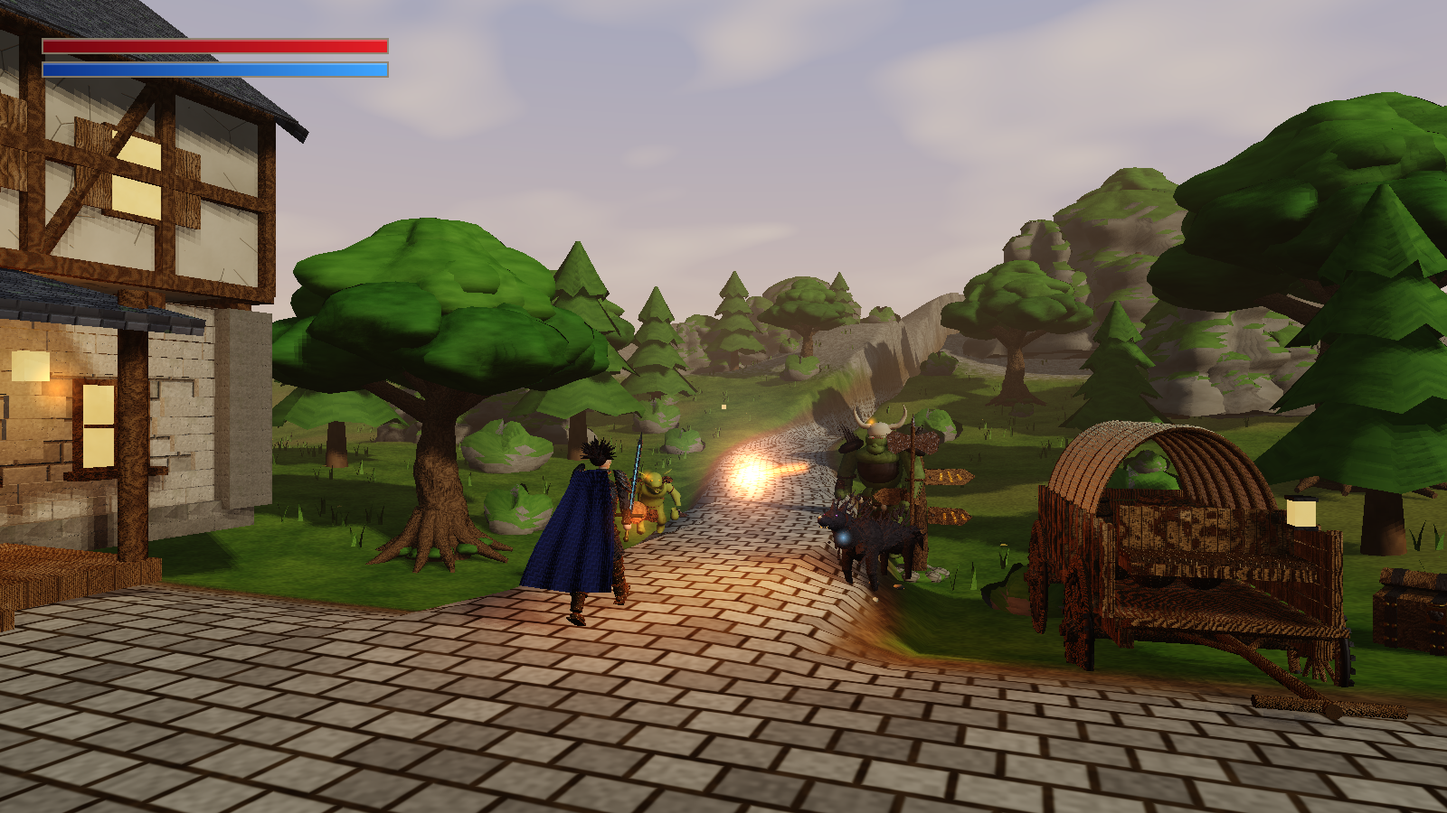
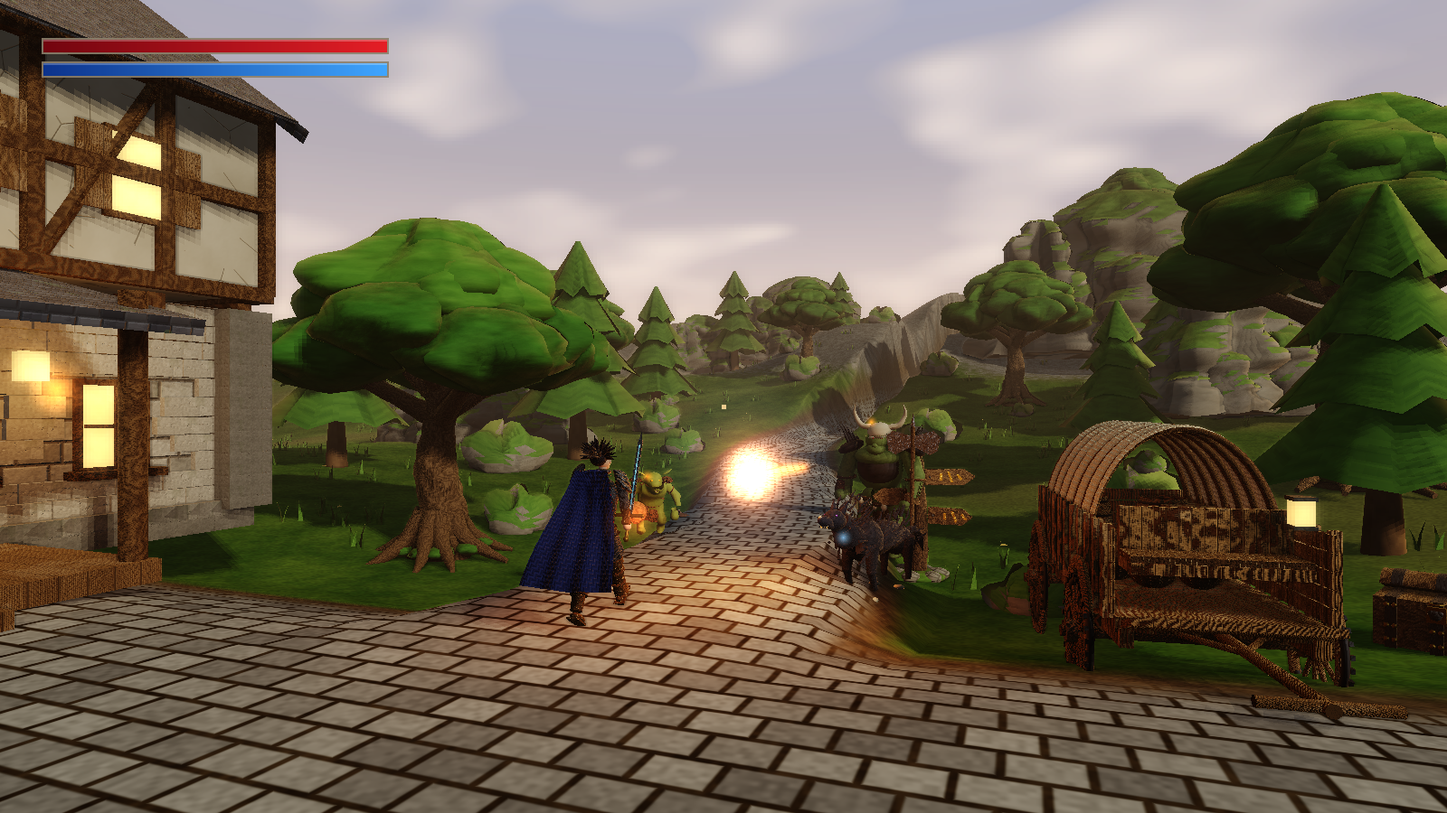
Q03: Offscreen HDR framebuffer (sceneFbo), SSAO contact shadows, dual-pass Gaussian bloom & golden-hour rim lighting

diff --git a/src/gl_renderer.cpp b/src/gl_renderer.cpp
@@ -1,5 +1,6 @@
 #ifdef _WIN32
 #include "gl_renderer.hpp"
+#include <algorithm>
 #include <cmath>
 #include <cstdio>
 #include "gl_shaders.hpp"
@@ -13,16 +14,40 @@ static GLuint link(const char* vs, const char* fs, std::string& err) {
   GLuint p = glCreateProgram(); glAttachShader(p, v); glAttachShader(p, f); glLinkProgram(p); glDeleteShader(v); glDeleteShader(f); GLint ok = 0; glGetProgramiv(p, GL_LINK_STATUS, &ok);
   if (!ok) { char log[1024]; glGetProgramInfoLog(p, 1024, nullptr, log); err += log; return 0; } return p; }
 bool GLRenderer::init(std::string& err) {
-  pbr = link(kPbrVS, kPbrFS, err); sky = link(kSkyVS, kSkyFS, err); hud = link(kHudVS, kHudFS, err); shadowProg = link(kShadowVS, kShadowFS, err); if (!pbr || !sky || !hud || !shadowProg) return false;
-  // 2048x2048 depth map for the directional golden-hour sun
+  pbr = link(kPbrVS, kPbrFS, err); sky = link(kSkyVS, kSkyFS, err); hud = link(kHudVS, kHudFS, err); shadowProg = link(kShadowVS, kShadowFS, err);
+  bloomProg = link(kSkyVS, kBloomFS, err); postProg = link(kSkyVS, kPostFS, err);
+  if (!pbr || !sky || !hud || !shadowProg || !bloomProg || !postProg) return false;
   glGenTextures(1, &shadowTex); glBindTexture(GL_TEXTURE_2D, shadowTex); glTexImage2D(GL_TEXTURE_2D, 0, GL_DEPTH_COMPONENT24, kShadowRes, kShadowRes, 0, GL_DEPTH_COMPONENT, GL_FLOAT, nullptr);
   glTexParameteri(GL_TEXTURE_2D, GL_TEXTURE_MIN_FILTER, GL_NEAREST); glTexParameteri(GL_TEXTURE_2D, GL_TEXTURE_MAG_FILTER, GL_NEAREST); glTexParameteri(GL_TEXTURE_2D, GL_TEXTURE_WRAP_S, GL_CLAMP_TO_BORDER); glTexParameteri(GL_TEXTURE_2D, GL_TEXTURE_WRAP_T, GL_CLAMP_TO_BORDER);
   { const GLfloat border[4] = {1, 1, 1, 1}; glTexParameterfv(GL_TEXTURE_2D, GL_TEXTURE_BORDER_COLOR, border); }
   glGenFramebuffers(1, &shadowFbo); glBindFramebuffer(GL_FRAMEBUFFER, shadowFbo); glFramebufferTexture2D(GL_FRAMEBUFFER, GL_DEPTH_ATTACHMENT, GL_TEXTURE_2D, shadowTex, 0); glDrawBuffer(GL_NONE); glReadBuffer(GL_NONE);
   bool fboOk = glCheckFramebufferStatus(GL_FRAMEBUFFER) == GL_FRAMEBUFFER_COMPLETE; glBindFramebuffer(GL_FRAMEBUFFER, 0); if (!fboOk) { err += "shadow framebuffer incomplete"; return false; }
+  glGenFramebuffers(1, &sceneFbo); glGenTextures(1, &sceneColorTex); glGenTextures(1, &sceneDepthTex);
+  glGenFramebuffers(2, bloomFbo); glGenTextures(2, bloomTex);
   glGenVertexArrays(1, &skyVao); glGenVertexArrays(1, &hudVao); glGenBuffers(1, &hudVbo); glBindVertexArray(hudVao); glBindBuffer(GL_ARRAY_BUFFER, hudVbo);
   glEnableVertexAttribArray(0); glVertexAttribPointer(0, 2, GL_FLOAT, GL_FALSE, 32, (void*)0); glEnableVertexAttribArray(1); glVertexAttribPointer(1, 2, GL_FLOAT, GL_FALSE, 32, (void*)8);
   glEnableVertexAttribArray(2); glVertexAttribPointer(2, 4, GL_FLOAT, GL_FALSE, 32, (void*)16); glBindVertexArray(0); return true; }
+void GLRenderer::ensureFbos(int w, int h) {
+  if (w == fboW && h == fboH) return;
+  fboW = w; fboH = h;
+  auto cfgTex = [&](GLuint t, int tw, int th, GLint ifmt, GLenum fmt, GLenum type, GLint filt) {
+    glBindTexture(GL_TEXTURE_2D, t); glTexImage2D(GL_TEXTURE_2D, 0, ifmt, tw, th, 0, fmt, type, nullptr);
+    glTexParameteri(GL_TEXTURE_2D, GL_TEXTURE_MIN_FILTER, filt); glTexParameteri(GL_TEXTURE_2D, GL_TEXTURE_MAG_FILTER, filt);
+    glTexParameteri(GL_TEXTURE_2D, GL_TEXTURE_WRAP_S, GL_CLAMP_TO_EDGE); glTexParameteri(GL_TEXTURE_2D, GL_TEXTURE_WRAP_T, GL_CLAMP_TO_EDGE);
+  };
+  cfgTex(sceneColorTex, w, h, GL_RGBA16F, GL_RGBA, GL_HALF_FLOAT, GL_LINEAR);
+  cfgTex(sceneDepthTex, w, h, GL_DEPTH_COMPONENT24, GL_DEPTH_COMPONENT, GL_FLOAT, GL_NEAREST);
+  glBindFramebuffer(GL_FRAMEBUFFER, sceneFbo);
+  glFramebufferTexture2D(GL_FRAMEBUFFER, GL_COLOR_ATTACHMENT0, GL_TEXTURE_2D, sceneColorTex, 0);
+  glFramebufferTexture2D(GL_FRAMEBUFFER, GL_DEPTH_ATTACHMENT, GL_TEXTURE_2D, sceneDepthTex, 0);
+  int bw = std::max(1, w / 2), bh = std::max(1, h / 2);
+  for (int i = 0; i < 2; i++) {
+    cfgTex(bloomTex[i], bw, bh, GL_RGBA16F, GL_RGBA, GL_HALF_FLOAT, GL_LINEAR);
+    glBindFramebuffer(GL_FRAMEBUFFER, bloomFbo[i]);
+    glFramebufferTexture2D(GL_FRAMEBUFFER, GL_COLOR_ATTACHMENT0, GL_TEXTURE_2D, bloomTex[i], 0);
+  }
+  glBindFramebuffer(GL_FRAMEBUFFER, 0);
+}
 GLint GLRenderer::U(GLuint prog, const char* n) { std::string k = std::to_string(prog) + n; auto it = uloc.find(k); if (it != uloc.end()) return it->second; return uloc[k] = glGetUniformLocation(prog, n); }
 GLRenderer::GPUModel& GLRenderer::upload(const Model* m) {
   auto it = models.find(m); if (it != models.end()) return it->second; GPUModel g;
@@ -41,11 +66,12 @@ GLRenderer::GPUModel& GLRenderer::upload(const Model* m) {
     g.prims.push_back(gp); }
   glBindVertexArray(0); return models[m] = std::move(g); }
 void GLRenderer::drawModel(const Instance& in, const Model& m, GPUModel& g, bool blendPass) {
-  glUniformMatrix4fv(U(pbr, "uM"), 1, GL_FALSE, in.M.data()); glUniform3f(U(pbr, "uTint"), in.tint.x, in.tint.y, in.tint.z); glUniform1f(U(pbr, "uEmBoost"), in.emissive);
+  glUniform3f(U(pbr, "uTint"), in.tint.x, in.tint.y, in.tint.z); glUniform1f(U(pbr, "uEmBoost"), in.emissive);
   glUniform1i(U(pbr, "uGround"), in.ground ? 1 : 0); glUniform1i(U(pbr, "uWind"), in.windSway ? 1 : 0); glUniform1f(U(pbr, "uBaseY"), in.M[13]);
   for (const GPUPrim& p : g.prims) { if (blendPass != (p.mat >= 0 && m.materials[p.mat].blend)) continue;
     Mat4 PM = (in.anim.rig == RIG_STATIC) ? in.M : mMul(in.M, partTransform(in.anim, p.partId, p.pivot));
-    glUniformMatrix4fv(U(pbr, "uM"), 1, GL_FALSE, PM.data()); float has[4] = {0, 0, 0, 0}, base[4] = {.6f, .6f, .6f, 1}, ef[3] = {0, 0, 0}; GLuint ids[4] = {0, 0, 0, 0};
+    glUniformMatrix4fv(U(pbr, "uM"), 1, GL_FALSE, PM.data());
+    float has[4] = {0, 0, 0, 0}, base[4] = {.6f, .6f, .6f, 1}, ef[3] = {0, 0, 0}; GLuint ids[4] = {0, 0, 0, 0};
     if (p.mat >= 0) { const Material& mt = m.materials[p.mat]; int ti[4] = {mt.base, mt.normal, mt.mr, mt.emissive};
       for (int k = 0; k < 4; k++) if (ti[k] >= 0 && ti[k] < (int)g.tex.size()) { has[k] = 1; ids[k] = g.tex[ti[k]]; }
       for (int k = 0; k < 4; k++) base[k] = mt.baseFactor[k]; for (int k = 0; k < 3; k++) ef[k] = mt.emissiveFactor[k]; }
@@ -53,7 +79,6 @@ void GLRenderer::drawModel(const Instance& in, const Model& m, GPUModel& g, bool
     glUniform4f(U(pbr, "uHas"), has[0], has[1], has[2], has[3]); glUniform4f(U(pbr, "uBase"), base[0], base[1], base[2], base[3]); glUniform3f(U(pbr, "uEmF"), ef[0], ef[1], ef[2]);
     glBindVertexArray(p.vao); glDrawElements(GL_TRIANGLES, p.count, GL_UNSIGNED_INT, nullptr); } }
 void GLRenderer::drawShadowCaster(const Instance& in, const Model& m, GPUModel& g) {
-  glUniformMatrix4fv(U(shadowProg, "uM"), 1, GL_FALSE, in.M.data());
   for (const GPUPrim& p : g.prims) { if (p.mat >= 0 && m.materials[p.mat].blend) continue;
     Mat4 PM = (in.anim.rig == RIG_STATIC) ? in.M : mMul(in.M, partTransform(in.anim, p.partId, p.pivot));
     glUniformMatrix4fv(U(shadowProg, "uM"), 1, GL_FALSE, PM.data()); glBindVertexArray(p.vao); glDrawElements(GL_TRIANGLES, p.count, GL_UNSIGNED_INT, nullptr); } }
@@ -64,8 +89,10 @@ void GLRenderer::shadowPass(const Scene& s, const Mat4& lvp) {
   glDisable(GL_POLYGON_OFFSET_FILL); glBindVertexArray(0); glBindFramebuffer(GL_FRAMEBUFFER, 0); }
 void GLRenderer::draw(const Scene& s, int w, int h) {
   if (w < 2 || h < 2) return;
-  Vec3 sun = normalize(s.sunDir); const float ext = 48.f;   // +-48 m around the hero => ~4.7 cm/texel
+  ensureFbos(w, h);
+  Vec3 sun = normalize(s.sunDir); const float ext = 48.f;
   Mat4 lvp = mMul(mOrtho(-ext, ext, -ext, ext, 1.f, 260.f), mLookAt(s.focus + sun * 120.f, s.focus)); shadowPass(s, lvp);
+  glBindFramebuffer(GL_FRAMEBUFFER, sceneFbo);
   glViewport(0, 0, w, h); glClearColor(.05f, .08f, .05f, 1); glClear(GL_COLOR_BUFFER_BIT | GL_DEPTH_BUFFER_BIT);
   float aspect = float(w) / h; Mat4 P = mPersp(s.cam.fovDeg, aspect, 0.1f, 500.f), V = mLookAt(s.cam.eye, s.cam.target), VP = mMul(P, V);
   Vec3 f = normalize(s.cam.target - s.cam.eye), r = normalize(cross(f, {0, 1, 0})), u = cross(r, f); float tanH = std::tan(s.cam.fovDeg * .5f * kPi / 180.f);
@@ -84,8 +111,26 @@ void GLRenderer::draw(const Scene& s, int w, int h) {
   for (const Instance& in : s.inst) if (in.model) drawModel(in, *in.model, upload(in.model), false);
   glEnable(GL_BLEND); glBlendFunc(GL_SRC_ALPHA, GL_ONE_MINUS_SRC_ALPHA); glDepthMask(GL_FALSE);
   for (const Instance& in : s.inst) if (in.model) drawModel(in, *in.model, upload(in.model), true);
-  glDepthMask(GL_TRUE);
-  glDisable(GL_DEPTH_TEST); glEnable(GL_BLEND); glBindVertexArray(0);
+  glDepthMask(GL_TRUE); glDisable(GL_BLEND); glDisable(GL_DEPTH_TEST);
+  // Dual-pass Gaussian bloom on bright HDR pixels (> 1.1)
+  int bw = std::max(1, w / 2), bh = std::max(1, h / 2);
+  glUseProgram(bloomProg); glUniform1i(U(bloomProg, "uTex"), 0); glActiveTexture(GL_TEXTURE0); glBindVertexArray(skyVao);
+  glBindFramebuffer(GL_FRAMEBUFFER, bloomFbo[0]); glViewport(0, 0, bw, bh);
+  glBindTexture(GL_TEXTURE_2D, sceneColorTex); glUniform2f(U(bloomProg, "uDir"), 1.5f / bw, 0.f); glUniform1i(U(bloomProg, "uExtract"), 1);
+  glDrawArrays(GL_TRIANGLES, 0, 3);
+  glBindFramebuffer(GL_FRAMEBUFFER, bloomFbo[1]);
+  glBindTexture(GL_TEXTURE_2D, bloomTex[0]); glUniform2f(U(bloomProg, "uDir"), 0.f, 1.5f / bh); glUniform1i(U(bloomProg, "uExtract"), 0);
+  glDrawArrays(GL_TRIANGLES, 0, 3);
+  // Composite SSAO + Dual-Pass Bloom + ACES to default framebuffer
+  glBindFramebuffer(GL_FRAMEBUFFER, 0); glViewport(0, 0, w, h);
+  glUseProgram(postProg);
+  glUniform1i(U(postProg, "uScene"), 0); glUniform1i(U(postProg, "uDepth"), 1); glUniform1i(U(postProg, "uBloom"), 2);
+  glUniform2f(U(postProg, "uInvRes"), 1.f / w, 1.f / h);
+  glActiveTexture(GL_TEXTURE0); glBindTexture(GL_TEXTURE_2D, sceneColorTex);
+  glActiveTexture(GL_TEXTURE0 + 1); glBindTexture(GL_TEXTURE_2D, sceneDepthTex);
+  glActiveTexture(GL_TEXTURE0 + 2); glBindTexture(GL_TEXTURE_2D, bloomTex[1]);
+  glDrawArrays(GL_TRIANGLES, 0, 3);
+  glEnable(GL_BLEND); glBindVertexArray(0);
   for (const Fx& fx : s.fx) { float sx, sy, d; if (project(VP, fx.pos, w, h, sx, sy, d)) { float c[4] = {fx.color.x, fx.color.y, fx.color.z, fx.alpha}; glow(sx, sy, fx.size * h * 0.9f / std::max(d, .5f), c); } }
   glBlendFunc(GL_SRC_ALPHA, GL_ONE); flush(w, h, true); glBlendFunc(GL_SRC_ALPHA, GL_ONE_MINUS_SRC_ALPHA); drawHud(s, w, h); flush(w, h, false); glDisable(GL_BLEND); }
 }  // namespace isekai

diff --git a/src/gl_shaders.hpp b/src/gl_shaders.hpp
@@ -1,4 +1,4 @@
-// GLSL 330 sources: Cook-Torrance GGX PBR + 3x3 PCF sun shadows, splat-mapped terrain, golden-hour atmospheric sky, depth-only shadow pass, HUD/FX overlay.
+// GLSL 330 sources: Cook-Torrance GGX PBR + 3x3 PCF sun shadows, golden-hour rim light, offscreen HDR SSAO + dual-pass Gaussian bloom, HUD/FX overlay.
 #pragma once
 namespace isekai {
 static const char* kShadowVS = R"(#version 330 core
@@ -26,7 +26,6 @@ vec3 brdf(vec3 N,vec3 V,vec3 L,vec3 rad,vec3 alb,float rough,float met){
   vec3 F0=mix(vec3(0.04),alb,met); vec3 F=F0+(1.0-F0)*pow(1.0-vh,5.0); float a=max(rough*rough,0.02);
   vec3 spec=D(nh,a)*Gs(nv,nl,rough)*F/(4.0*nv*max(nl,1e-3)); vec3 kd=(1.0-F)*(1.0-met);
   return (kd*alb/PI+spec)*rad*nl; }
-vec3 aces(vec3 x){ return clamp((x*(2.51*x+0.03))/(x*(2.43*x+0.59)+0.14),0.0,1.0); }
 float shadowAt(vec3 wp, vec3 n){
   vec4 p=uLVP*vec4(wp+n*0.07,1.0); vec3 c=p.xyz/p.w*0.5+0.5; if(c.x<0.0||c.x>1.0||c.y<0.0||c.y>1.0||c.z>1.0) return 1.0;
   vec2 ts=1.0/vec2(textureSize(uShadow,0)); float s=0.0; float bias=0.0006;
@@ -34,7 +33,6 @@ float shadowAt(vec3 wp, vec3 n){
   return s/9.0; }
 float roadX(float z){ return 3.5*sin(z*0.045)+1.5*sin(z*0.11+1.0); }
 float sst(float a,float b,float x){ float t=clamp((x-a)/(b-a),0.0,1.0); return t*t*(3.0-2.0*t); }
-// Terrain splat: grass/meadow, rocky foothills, mud verge, mortared cobblestone road + plaza. Returns albedo, writes bump height + roughness.
 vec3 terrain(vec3 wp, out float hgt, out float rough){
   float x=wp.x, z=wp.z; float d=abs(x-roadX(z)); float rm=max(clamp((3.2-d)/1.2,0.0,1.0), sst(8.0,14.0,z)*(1.0-sst(16.0,22.0,d)));
   float n1=vnoise(wp.xz*0.9), n2=vnoise(wp.xz*4.0), n3=vnoise(wp.xz*0.12), n4=vnoise(wp.xz*18.0);
@@ -59,19 +57,23 @@ void main(){
     if(uHas.z>0.5){ vec3 mr=texture(uMR,vUV).rgb; rough=clamp(mr.g,0.05,1.0); met=mr.b; }
     if(dot(N,V)<0.0) N=-N;
     if(uHas.y>0.5){ vec3 T=normalize(vT.xyz); T=normalize(T-N*dot(N,T)); vec3 B=cross(N,T)*vT.w; vec3 t=texture(uNrm,vUV).xyz*2.0-1.0; N=normalize(T*t.x+B*t.y+N*t.z); }
-    if(uHas.w>0.5) em=pow(texture(uEm,vUV).rgb,vec3(2.2))*uEmF*uEmBoost; }
+    if(uHas.w>0.5) em=pow(texture(uEm,vUV).rgb,vec3(2.2))*uEmF*uEmBoost * 1.8; }
   alb*=uTint; vec3 Ng=normalize(vN);
   float sh=shadowAt(vWP,uGround==1?normalize(vN):(dot(Ng,V)<0.0?-Ng:Ng));
   vec3 sunCol=vec3(3.4,2.5,1.55); vec3 col=brdf(N,V,uSun,sunCol*sh,alb,rough,met);
-  // horizon ambient occlusion: contact darkening near the base of structures/characters, hemispheric sky/ground bounce
-  float ao=(uGround==1)?1.0:mix(0.55,1.0,smoothstep(0.0,2.2,vWP.y-uBaseY));
-  vec3 amb=mix(vec3(0.10,0.075,0.05),uZenith*0.55+uHoriz*0.12,N.y*0.5+0.5);
-  col+=alb*amb*(1.0-met*0.6)*ao+mix(vec3(0.0),uHoriz*0.2,pow(1.0-max(dot(N,V),0.0),3.0))*(0.3+met)*ao;
+  float ao=(uGround==1)?1.0:mix(0.52,1.0,smoothstep(0.0,2.2,vWP.y-uBaseY));
+  vec3 amb=mix(vec3(0.10,0.075,0.05),uZenith*0.55+uHoriz*0.14,N.y*0.5+0.5);
+  col+=alb*amb*(1.0-met*0.6)*ao;
+  // Golden-hour directional sun rim-lighting on characters, foliage & architecture
+  if(uGround==0){
+    float rim=pow(1.0-max(dot(N,V),0.0),3.0); float sb=clamp(dot(N,uSun)*0.5+0.5,0.0,1.0);
+    col+=vec3(1.45,0.88,0.42)*rim*sb*(0.35+0.65*sh)*(0.4+0.6*ao);
+  }
   for(int i=0;i<uNL;i++){ vec3 d=uLP[i]-vWP; float dist=length(d); float att=clamp(1.0-pow(dist/uLR[i],2.0),0.0,1.0); att*=att/(1.0+dist*dist*0.35);
     col+=brdf(N,V,d/dist,uLC[i]*att,alb,rough,met); }
-  col+=em; float dist=length(uCam-vWP); float fog=1.0-exp(-pow(dist*0.011,1.3));
-  float sunAmt=pow(max(dot(normalize(vWP-uCam),uSun),0.0),4.0); vec3 fogC=mix(uHoriz*0.8,vec3(1.0,0.72,0.45),sunAmt*0.6);
-  col=mix(col,fogC,clamp(fog,0.0,1.0)); col=aces(col*0.8); oC=vec4(pow(col,vec3(1.0/2.2)),uBase.a); })";
+  col+=em; float dist=length(uCam-vWP); float fog=1.0-exp(-pow(dist*0.011,1.35));
+  float sunAmt=pow(max(dot(normalize(vWP-uCam),uSun),0.0),3.5); vec3 fogC=mix(uHoriz*0.85,vec3(1.15,0.76,0.45),sunAmt*0.7);
+  col=mix(col,fogC,clamp(fog,0.0,1.0)); oC=vec4(col,uBase.a); })";
 static const char* kSkyVS = R"(#version 330 core
 out vec2 vP; void main(){ vec2 p=vec2((gl_VertexID<<1)&2,gl_VertexID&2); vP=p*2.0-1.0; gl_Position=vec4(vP,0.9999,1.0); })";
 static const char* kSkyFS = R"(#version 330 core
@@ -79,12 +81,41 @@ in vec2 vP; out vec4 oC; uniform vec3 uF; uniform vec3 uR; uniform vec3 uU; unif
 float hash(vec2 p){ return fract(sin(dot(p,vec2(127.1,311.7)))*43758.5453); }
 float vnoise(vec2 p){ vec2 i=floor(p), f=fract(p); f=f*f*(3.0-2.0*f); return mix(mix(hash(i),hash(i+vec2(1,0)),f.x),mix(hash(i+vec2(0,1)),hash(i+vec2(1,1)),f.x),f.y); }
 void main(){ vec3 d=normalize(uF+vP.x*uTan.x*uR+vP.y*uTan.y*uU); float h=clamp(d.y,0.0,1.0); float mu=max(dot(d,uSun),0.0);
-  vec3 c=mix(uHoriz*0.95,uZenith,pow(h,0.5));                                  // Rayleigh-like zenith blue
-  c+=vec3(1.0,0.45,0.18)*exp(-abs(d.y)*7.0)*(0.25+0.9*pow(mu,3.0));              // golden horizon scattering band
-  c+=vec3(1.0,0.75,0.45)*(pow(mu,8.0)*0.35+pow(mu,120.0)*2.2);                  // Mie sun halo + disc
+  vec3 c=mix(uHoriz*0.95,uZenith,pow(h,0.5));
+  c+=vec3(1.0,0.45,0.18)*exp(-abs(d.y)*7.0)*(0.25+0.9*pow(mu,3.0));
+  c+=vec3(1.0,0.75,0.45)*(pow(mu,8.0)*0.35+pow(mu,120.0)*2.2);
   if(d.y>0.02){ vec2 q=d.xz/(d.y+0.25)*2.2; float cl=clamp((vnoise(q*vec2(1.3,2.5))*0.7+vnoise(q*vec2(3.0,5.0))*0.3-0.52)*3.0,0.0,1.0)*smoothstep(0.02,0.3,d.y)*0.55; c=mix(c,vec3(1.0,0.78,0.6)*1.1+vec3(0.1,0.05,0.0)*mu,cl); }
   if(d.y<0.0) c=mix(c,uHoriz*0.8,clamp(1.0+d.y*4.0,0.0,1.0));
-  c=c*0.62; c=clamp((c*(2.51*c+0.03))/(c*(2.43*c+0.59)+0.14),0.0,1.0); oC=vec4(pow(c,vec3(1.0/2.2)),1.0); })";
+  oC=vec4(c*0.78,1.0); })";
+static const char* kBloomFS = R"(#version 330 core
+in vec2 vP; out vec4 oC; uniform sampler2D uTex; uniform vec2 uDir; uniform int uExtract;
+void main(){
+  vec2 uv=vP*0.5+0.5; float w[5]=float[](0.227027,0.1945946,0.1216216,0.054054,0.016216);
+  vec3 acc=vec3(0.0);
+  for(int i=-4;i<=4;i++){
+    vec3 c=texture(uTex,uv+uDir*float(i)).rgb;
+    if(uExtract==1){ float br=max(max(c.r,c.g),c.b); c*=clamp((br-1.1)/max(br,1e-4),0.0,1.0); }
+    acc+=c*w[abs(i)];
+  }
+  oC=vec4(acc,1.0); })";
+static const char* kPostFS = R"(#version 330 core
+in vec2 vP; out vec4 oC; uniform sampler2D uScene; uniform sampler2D uDepth; uniform sampler2D uBloom; uniform vec2 uInvRes;
+float linZ(vec2 uv){ float d=texture(uDepth,uv).r*2.0-1.0; return (2.0*0.1*500.0)/(500.0+0.1-d*(500.0-0.1)); }
+vec3 aces(vec3 x){ return clamp((x*(2.51*x+0.03))/(x*(2.43*x+0.59)+0.14),0.0,1.0); }
+void main(){
+  vec2 uv=vP*0.5+0.5; vec3 hdr=texture(uScene,uv).rgb; float zc=linZ(uv); float ao=1.0;
+  if(zc<420.0){
+    float occ=0.0; float rad=clamp(10.0/zc,1.5,9.0);
+    float ang=fract(sin(dot(gl_FragCoord.xy,vec2(12.9898,78.233)))*43758.5453)*6.28318;
+    for(int i=0;i<12;i++){
+      float r=(float(i)+0.5)/12.0*rad; float a=ang+float(i)*2.39996;
+      vec2 off=vec2(cos(a),sin(a))*r*uInvRes; float zs=linZ(uv+off); float dz=zc-zs;
+      if(dz>0.02&&dz<1.35) occ+=smoothstep(0.02,0.22,dz)*(1.0-smoothstep(0.45,1.35,dz));
+    }
+    ao=clamp(1.0-occ*(0.58/12.0),0.38,1.0);
+  }
+  vec3 col=hdr*ao+texture(uBloom,uv).rgb*0.72;
+  col=aces(col*0.80); oC=vec4(pow(col,vec3(1.0/2.2)),1.0); })";
 static const char* kHudVS = R"(#version 330 core
 layout(location=0) in vec2 aP; layout(location=1) in vec2 aUV; layout(location=2) in vec4 aC; uniform vec2 uRes; out vec2 vUV; out vec4 vC;
 void main(){ vUV=aUV; vC=aC; gl_Position=vec4(aP.x/uRes.x*2.0-1.0,1.0-aP.y/uRes.y*2.0,0.0,1.0); })";

diff --git a/src/soft_extra.cpp b/src/soft_extra.cpp
@@ -48,8 +48,46 @@ void renderSceneSoft(Framebuffer& fb, const Scene& s) {
   static ShadowMap sm; shadowPass(sm, s); gEnv.sun = sun; gEnv.sm = &sm; gEnv.lights = &s.lights; gEnv.fogCol = vmix(s.skyHorizon, Vec3{.6f, .65f, .75f}, .35f) * .8f; gEnv.fogDen = 0.0085f;
   for (const Instance& in : s.inst) if (in.model) drawInstance(fb, s.cam, *in.model, in.M, in.tint, in.ground, in.anim);
   gEnv.sm = nullptr; gEnv.lights = nullptr;
+  // Screen-Space Ambient Occlusion (SSAO) from depth neighborhood
+  const int dx8[8] = {1, -1, 0, 0, 1, -1, 1, -1}, dy8[8] = {0, 0, 1, -1, 1, -1, -1, 1};
+  for (int y = 0; y < fb.h; y++) for (int x = 0; x < fb.w; x++) {
+    float zc = fb.depth[size_t(y) * fb.w + x]; if (zc > 400.f) continue;
+    int rad = std::clamp(int(14.f / std::max(zc, 0.5f)), 2, 9); float occ = 0.f;
+    for (int k = 0; k < 8; k++) {
+      int sx = std::clamp(x + dx8[k] * rad, 0, fb.w - 1), sy = std::clamp(y + dy8[k] * rad, 0, fb.h - 1);
+      float dz = zc - fb.depth[size_t(sy) * fb.w + sx];
+      if (dz > 0.03f && dz < 1.35f) occ += sstep(0.03f, 0.24f, dz) * (1.f - sstep(0.45f, 1.35f, dz));
+    }
+    float ao = std::clamp(1.f - occ * (0.54f / 8.f), 0.42f, 1.f);
+    uint8_t* p = &fb.rgb[(size_t(y) * fb.w + x) * 3];
+    p[0] = uint8_t(p[0] * ao); p[1] = uint8_t(p[1] * ao); p[2] = uint8_t(p[2] * ao);
+  }
   for (const Fx& fx : s.fx) { Vec3 d = fx.pos - s.cam.eye; float cz = dot(d, f); if (cz < .3f) continue; float sx = (dot(d, r) / (cz * tanH * asp) * .5f + .5f) * fb.w, sy = (.5f - dot(d, up) / (cz * tanH) * .5f) * fb.h;
     splat(fb, sx, sy, std::min(160.f, fx.size * fb.h * .9f / cz), fx.color, fx.alpha); }
+  // Dual-pass separable Gaussian bloom on bright emissive/spell pixels
+  { int bw = std::max(1, fb.w / 4), bh = std::max(1, fb.h / 4);
+  std::vector<Vec3> b0(size_t(bw) * bh), b1(size_t(bw) * bh);
+  for (int y = 0; y < bh; y++) for (int x = 0; x < bw; x++) {
+    const uint8_t* p = &fb.rgb[(size_t(y * 4) * fb.w + x * 4) * 3];
+    Vec3 c{p[0] / 255.f, p[1] / 255.f, p[2] / 255.f}; float br = std::max({c.x, c.y, c.z});
+    b0[size_t(y) * bw + x] = (br > 0.72f) ? c * ((br - 0.72f) / 0.28f) : Vec3{};
+  }
+  const float gw[5] = {0.227f, 0.195f, 0.122f, 0.054f, 0.016f};
+  for (int y = 0; y < bh; y++) for (int x = 0; x < bw; x++) {
+    Vec3 acc = b0[size_t(y) * bw + x] * gw[0];
+    for (int i = 1; i <= 4; i++) acc = acc + (b0[size_t(y) * bw + std::min(bw - 1, x + i)] + b0[size_t(y) * bw + std::max(0, x - i)]) * gw[i];
+    b1[size_t(y) * bw + x] = acc;
+  }
+  for (int y = 0; y < bh; y++) for (int x = 0; x < bw; x++) {
+    Vec3 acc = b1[size_t(y) * bw + x] * gw[0];
+    for (int i = 1; i <= 4; i++) acc = acc + (b1[size_t(std::min(bh - 1, y + i)) * bw + x] + b1[size_t(std::max(0, y - i)) * bw + x]) * gw[i];
+    b0[size_t(y) * bw + x] = acc;
+  }
+  for (int y = 0; y < fb.h; y++) for (int x = 0; x < fb.w; x++) {
+    Vec3 bl = b0[size_t(std::min(bh - 1, y / 4)) * bw + std::min(bw - 1, x / 4)] * 0.55f;
+    uint8_t* p = &fb.rgb[(size_t(y) * fb.w + x) * 3];
+    p[0] = uint8_t(std::min(255.f, p[0] + bl.x * 255.f)); p[1] = uint8_t(std::min(255.f, p[1] + bl.y * 255.f)); p[2] = uint8_t(std::min(255.f, p[2] + bl.z * 255.f));
+  } }
   // Minimal dark-fantasy HUD: slim metallic-framed HP (crimson) and Mana (azure) bars, top-left. Nothing else.
   int u = std::max(1, fb.h / 450), x0 = 24 * u, bw = 190 * u, bh = 7 * u; const Vec3 frame{.55f, .5f, .42f}, back{.05f, .03f, .04f};
   auto bar = [&](int y, float v, Vec3 c0, Vec3 c1) { rect(fb, x0 - u, y - u, x0 + bw + u, y + bh + u, frame, .9f); rect(fb, x0, y, x0 + bw, y + bh, back, .9f); int w = int(bw * std::clamp(v, 0.f, 1.f));

diff --git a/src/soft_raster.cpp b/src/soft_raster.cpp
@@ -54,6 +54,10 @@ void drawInstance(Framebuffer& fb, const Camera& cam, const Model& m, const Mat4
         float rough = MR ? sample(*MR, u, v).y : 0.7f, metal = MR ? sample(*MR, u, v).z : 0.f; Vec3 wp = a.wp * pa + b.wp * pb + c.wp * pc; Vec3 vd = normalize(cam.eye - wp), hv = normalize(L + vd);
         float sh = gEnv.sm ? softShadow(*gEnv.sm, wp, n, L) : 1.f; float ndl = std::max(0.f, dot(n, L)) * sh, spec = std::pow(std::max(0.f, dot(n, hv)), 2.f / (rough * rough + .02f)) * (0.1f + 0.9f * metal) * (1 - rough * .6f);
         spec *= sh; float ao = ground ? 1.f : (gEnv.sm ? std::clamp(0.55f + 0.45f * sstep(0.f, 2.2f, wp.y - terrainHeight(wp.x, wp.z)), 0.f, 1.f) : 1.f); float amb = (0.26f + 0.14f * n.y) * ao; Vec3 lit = {alb.x * (1 - metal * .8f) * (amb * .8f + ndl * 1.25f) + spec * (0.9f + metal * (alb.x - .9f)), alb.y * (1 - metal * .8f) * (amb + ndl * 1.1f) + spec * (0.85f + metal * (alb.y - .85f)), alb.z * (1 - metal * .8f) * (amb * 1.2f + ndl * .85f) + spec * (0.75f + metal * (alb.z - .75f))};
+        if (!ground) {
+          float rim = std::pow(1.f - std::max(0.f, dot(n, vd)), 3.0f), sb = std::clamp(dot(n, L) * 0.5f + 0.5f, 0.f, 1.f);
+          lit = lit + Vec3{1.15f, 0.72f, 0.35f} * (rim * sb * (0.35f + 0.65f * sh) * ao * 0.55f);
+        }
         if (gEnv.lights) lit = lit + softPointLights(wp, n, alb);
         if (EM && mat) { Vec3 e = sample(*EM, u, v); lit = lit + Vec3{e.x * mat->emissiveFactor[0], e.y * mat->emissiveFactor[1], e.z * mat->emissiveFactor[2]} * 2.2f; }
         float fog = 1.f - std::exp(-z * gEnv.fogDen); lit = lit * (1 - fog) + gEnv.fogCol * fog;

diff --git a/src/gl_renderer.hpp b/src/gl_renderer.hpp
@@ -1,4 +1,4 @@
-// OpenGL 3.3 renderer: uploads .glb meshes/textures, draws the PBR scene, sky dome, glow FX and HUD overlay.
+// OpenGL 3.3 renderer: offscreen HDR FBO, SSAO, dual-pass Gaussian bloom, Cook-Torrance GGX PBR + 3x3 PCF shadows, sky dome, glow FX and HUD.
 #pragma once
 #ifdef _WIN32
 #include <string>
@@ -17,6 +17,7 @@ class GLRenderer {
   struct GPUModel { std::vector<GPUPrim> prims; std::vector<GLuint> tex; };
   GPUModel& upload(const Model* m);
   GLint U(GLuint prog, const char* n);
+  void ensureFbos(int w, int h);
   void drawModel(const Instance& in, const Model& m, GPUModel& g, bool blendPass);
   void drawShadowCaster(const Instance& in, const Model& m, GPUModel& g);
   void shadowPass(const Scene& s, const Mat4& lvp);
@@ -31,7 +32,9 @@ class GLRenderer {
   void drawHud(const Scene& s, int w, int h);
   bool project(const Mat4& vp, Vec3 p, int w, int h, float& sx, float& sy, float& depth);
   GLuint shadowProg = 0, shadowFbo = 0, shadowTex = 0; static constexpr int kShadowRes = 2048;
-  GLuint pbr = 0, sky = 0, hud = 0, skyVao = 0, hudVao = 0, hudVbo = 0; std::vector<HV> hv;
+  GLuint sceneFbo = 0, sceneColorTex = 0, sceneDepthTex = 0;
+  GLuint bloomFbo[2] = {0, 0}, bloomTex[2] = {0, 0}; int fboW = 0, fboH = 0;
+  GLuint pbr = 0, sky = 0, bloomProg = 0, postProg = 0, hud = 0, skyVao = 0, hudVao = 0, hudVbo = 0; std::vector<HV> hv;
   std::unordered_map<const Model*, GPUModel> models; std::unordered_map<std::string, GLint> uloc;
 };
 }  // namespace isekai

diff --git a/src/gl_loader.hpp b/src/gl_loader.hpp
@@ -24,7 +24,10 @@ typedef ptrdiff_t GLsizeiptr_; typedef char GLchar_;
 #define GL_CLAMP_TO_EDGE 0x812F
 #define GL_MULTISAMPLE 0x809D
 #define GL_FRAMEBUFFER 0x8D40
+#define GL_COLOR_ATTACHMENT0 0x8CE0
 #define GL_DEPTH_ATTACHMENT 0x8D00
+#define GL_RGBA16F 0x881A
+#define GL_HALF_FLOAT 0x140B
 #define GL_FRAMEBUFFER_COMPLETE 0x8CD5
 #define GL_DEPTH_COMPONENT24 0x81A6
 #define GL_CLAMP_TO_BORDER 0x812D

diff --git a/MASTER_QUEUE.md b/MASTER_QUEUE.md
@@ -21,7 +21,7 @@
        - **Dodge Roll / Jump**: Forward 360-degree tucked roll or airborne jump pose.
        - **Monsters & Allies**: Animated biped walk + heavy weapon swing for Orcs, Goblins, and Paladin Garrick; 4-legged bounding gallop + lunging bite for Shadow Direwolves.
 
-- [ ] **Q03 — Offscreen HDR Framebuffer: Screen-Space Ambient Occlusion (SSAO), Dual-Pass Bloom & Atmospheric Scattering**
+- [x] **Q03 — Offscreen HDR Framebuffer: Screen-Space Ambient Occlusion (SSAO), Dual-Pass Bloom & Atmospheric Scattering**
   - Upgrade `src/gl_renderer.hpp` / `src/gl_renderer.cpp` to render into an offscreen color + depth FBO (`sceneFBO`) and composite with a post-process pass:
     1. **SSAO**: Reconstruct depth neighborhoods to ground buildings, wagon wheels, boots, rocks, and foliage with natural contact shadows.
     2. **Dual-Pass Gaussian Bloom**: Extract bright emissive pixels (`> 1.1` from spells, glowing runes, forge fire, and lit windows), blur horizontally/vertically, and additively composite.

diff --git a/ROADMAP_STATUS.md b/ROADMAP_STATUS.md
@@ -14,3 +14,4 @@
 
 - [x] **Q01**: Sculpted 360-degree mountain crags (`env_mossy_forest_cliff_modular.glb`), sacred world tree (`env_sacred_world_tree_canopy.glb`), 3D pine/oak forest, mossy boulders, wind-swaying 3D grass tufts & wildflowers, fixed idle sword glow.
 - [x] **Q02**: Hierarchical multi-part character & monster skeletal animation (`src/animator.hpp`), anatomical sub-mesh `partId` + joint pivots in `model.h`, `gltf_loader.cpp`, and `vork_forge`.
+- [x] **Q03**: Offscreen HDR framebuffer (`sceneFbo`), Screen-Space Ambient Occlusion (SSAO), Dual-Pass Gaussian Bloom (`bloomFbo[2]`), and Golden-Hour Sun Rim-Lighting & Horizon Scattering.
